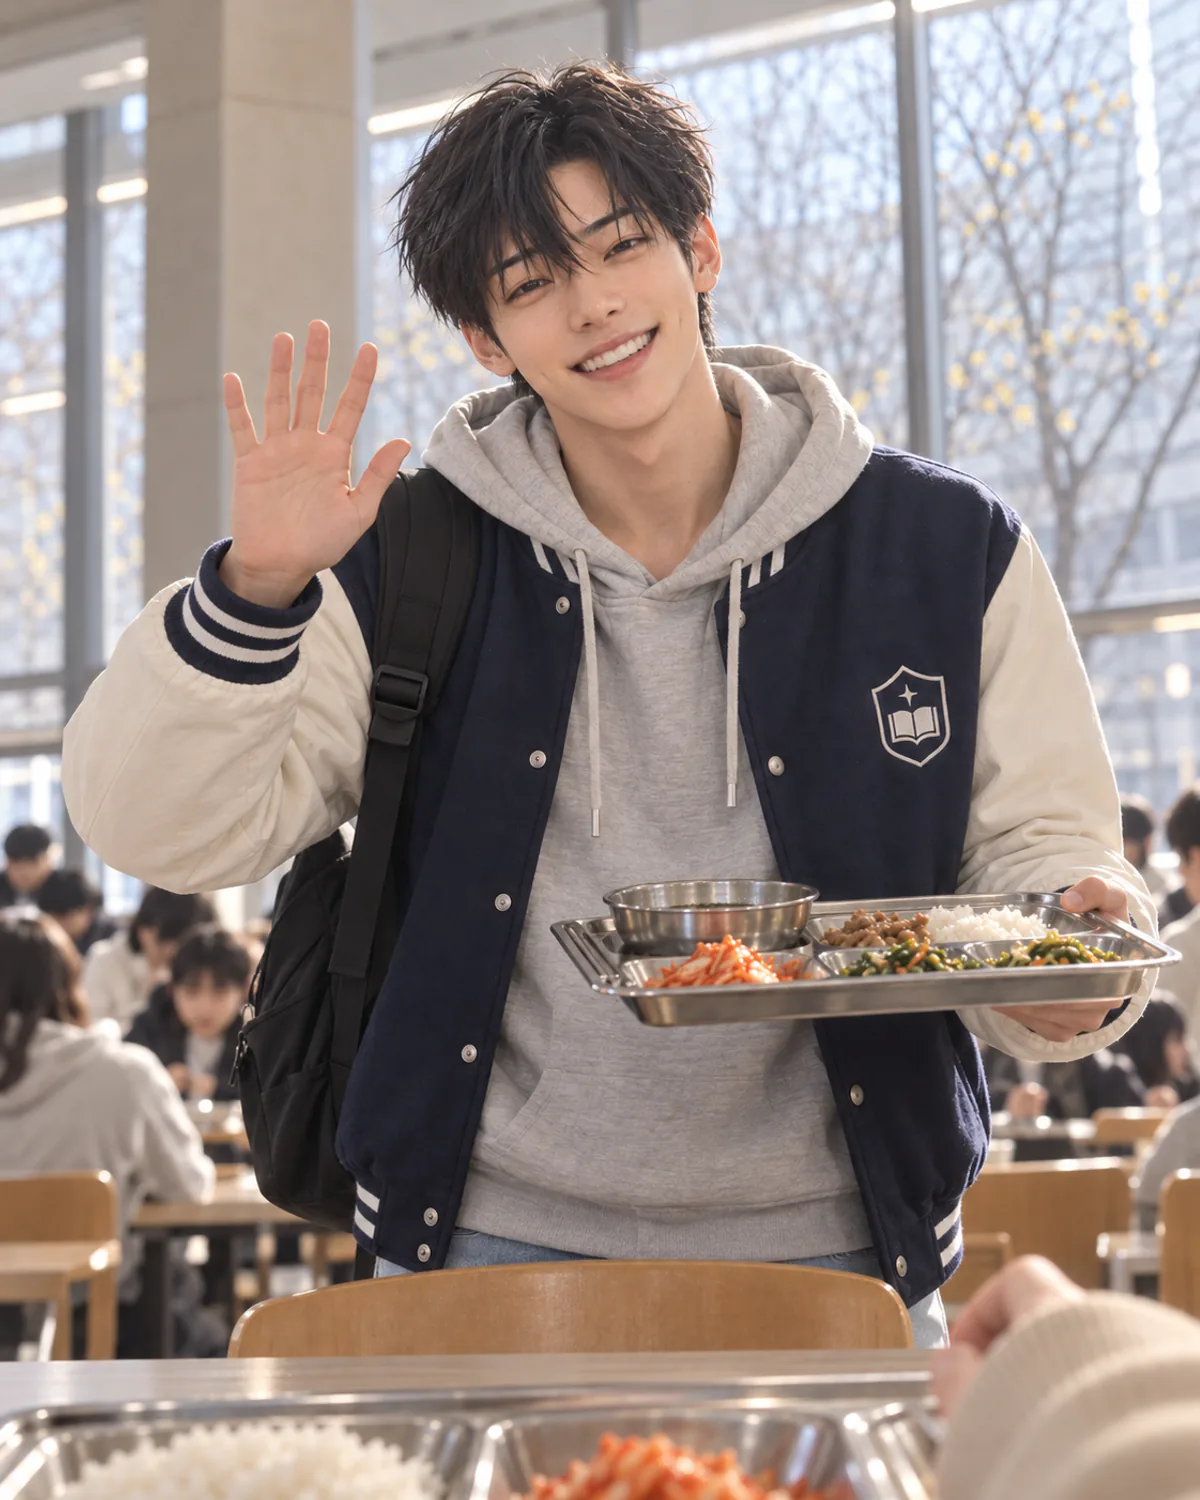
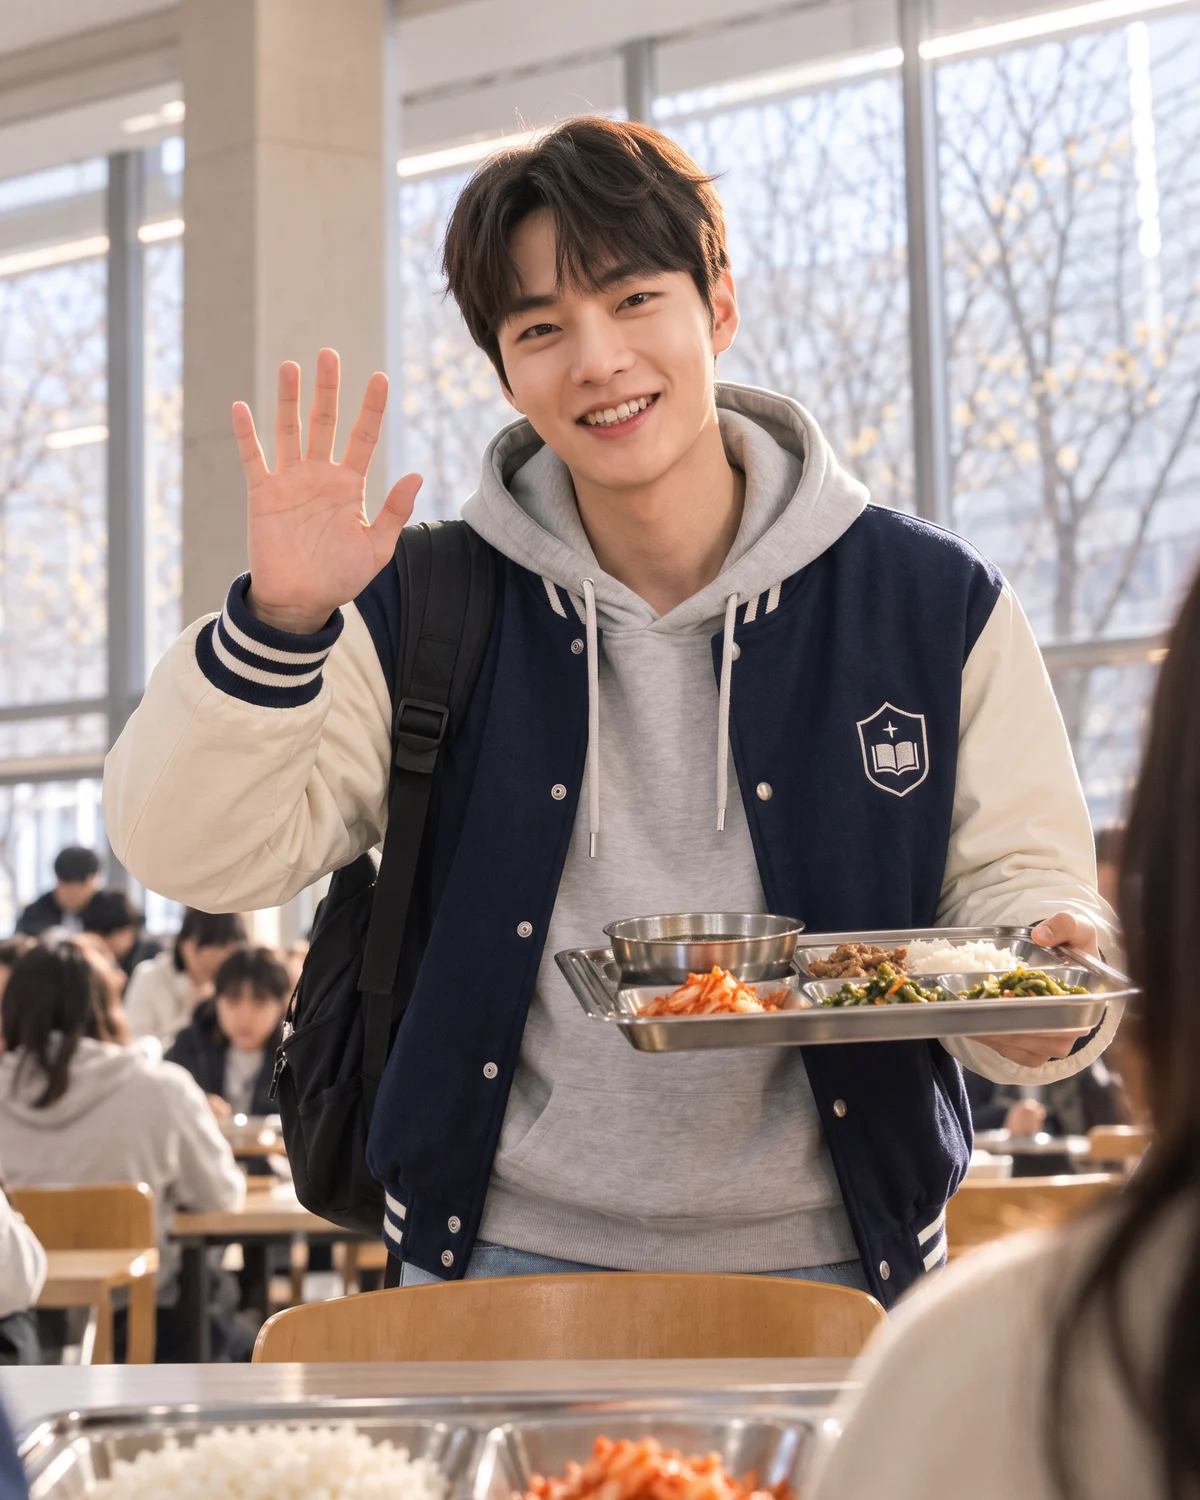
feat(드라마 쇼케이스 · 홈 · LAB 칸 태오 = 덧니 선배 공개 · 11-03): 유호님 「이대로 진행」 — 칸 다섯(1 · 11 · 12 · 13 · 14)과 작은 판, LAB 공유 그림을 synk.im에(1d78fdd1, 검수 taeo-home-panels-20261103-r2, 닮음 대조 Fable). WORLD 폴더의 칸 11 사본 둘도 같은 파일로. 콘티 순서 8 · 트랙 줄

diff --git a/docs/_ops/트랙.md b/docs/_ops/트랙.md
@@ -195,7 +195,7 @@ synk-town 운영은 11-01 실제 대조 v45 — 0555a4c7(싱크타운 첫 C4 후
 - **드라마 말하기 — 기존1화 이PC 시범 완료(10-31):** 승인 태오 실사와 Julian/Hana/Harrison 목소리로 장면 → 한 줄 재시도 → 새 상황을 `127.0.0.1:8794`에서 [직접 체험](../../experiences/drama/pilot/README.md)할 수 있다(서버/작업본 유지). 다음 범위는 실제 장치/성인 시범 · 문항/몽골어 검문 · 완결 1화/둘째 회 제작 실측 · talk 운영 연결이고, 가격 · 한도 · 결제 · 연재량은 미확정이다. [제작 기록](../../experiences/drama/qa/시범판-20261031/제작기록.md) · [기획/BM](../드라마말하기_기획.md). [경과](보관/트랙_2026-11.md#t1102-196)
   - **시범판 백엔드(10-31, Claude):** Atlas `spoken` · [말하기 지도](../../strata/maps/ko-speaking.json) · talk `world-speaking` `take`가 운영 · 리허설 v18(판정 drama-judge-5, 17줄 다시 검수 통과)로 켜져 있고, talk Atlas 사본 `spoken`도 11-02 운영에 들어가 드라마 화면이 학습 기록을 보내도 된다. 남은 일: 판정의 반말 뒤 존댓말 · 부정(「안 · 못」) 한계 고치기(고치면 17줄 다시 검수) — Claude. 설계는 [기획 §4-2 「talk 동작」](../드라마말하기_기획.md#4-2-노트-고르기와-말투), 측정은 [리허설 기록](../../experiences/drama/qa/리허설-20261031/README.md). [경과](보관/트랙_2026-11.md#t1102-197)
   - **1화 그림 시안 → 결 시험(10-30, Claude):** 웹툰 · 2D 라이브 시안은 고른 값 없이 끝났고, 유호님 「실사로」 뒤 태오 선배 영상 시험(한 테이크 · 나노바나나 시작 그림 두 판 — 같은 얼굴 · 벚꽃 얼굴)까지 마쳤다 — 경과와 실측은 [시험 기록](../../experiences/drama/qa/최신기법-20261030/브리프.md). 남은 일: 어느 얼굴로 갈지와 720p는 유호님 말씀 뒤, 기획 6절 · 11절 ① 「웹툰풍」을 실사로 옮기기와 앱 칸 실사로 다시 굽기 — Claude(홈페이지 세션이 넘긴 몫). [경과](보관/트랙_2026-11.md#t1102-198)
-  - **쇼케이스 1분 콘티(10-31, Claude · 유호님 「이대로 확정」 · [결정](결정.md) 10-31 「쇼케이스 한 흐름 먼저」 · 「쇼케이스 1분 콘티 확정」):** [콘티](../../experiences/drama/qa/쇼케이스-20261031/콘티.md)는 11-02 시범판 흐름(되묻기 → 스스로 고침 → 「다른 말로 한번 더」 → 편의점 새 상황)으로 맞췄고, 장면 화면은 시네마 자막([정본](../디자인/드라마_장면/README.md))과 코치 틀로 시범판에 들어갔다. 태오 얼굴은 11-02 「덧니 선배」([결정](결정.md) 11-02). 11-03 식당 네 컷을 PULSE 무제한(0크레딧)으로 굽고(두 사람 판은 nsfw 오탐 → 성인 대학생 표현으로 다시), 원래 녹음을 얹어 시범판 · WORLD 공개본(synk.im 866d3ab8, 검수 drama-world-showcase-taeo-20261103-r2)의 선배 1 · 2 · 3 · 첫 되묻기 · 정지 사진 · 코치 목소리를 바꿨다. 11-03 시범판 오늘 기록을 콘티대로 고쳐 WORLD 공개(synk.im 9d358235, 검수 drama-wrap-20261103-r3). 남은 일: 1분 · 30초 영상판 첫 판 유호님 확인([콘티](../../experiences/drama/qa/쇼케이스-20261031/콘티.md) 순서 6 · 7, 실제 받아쓰기 판은 11-08 크레딧 뒤), 체험판 듣는 반복 둘(`sc-L6` · `sc-L7`, GPT 작업자가 유호님 지시로 멈춤 — 재개 말씀 필요), 홈 · LAB 칸 다섯 덧니 선배 판 공개(유호님이 보신 뒤), 제2의 나 인물 참고 세트 예비 판은 11-03 구움([결 README](../../experiences/drama/qa/제2의나-20261102/결/README.md)). 다음 드라마 공개에 함께: C 길 P2 둘(r2 FA1 첫 화면 표지가 다시 들어올 때 남음 · FA2 언어 바꾸면 C 안내가 지워짐), 공개 후보는 LF 사본에서(r3 FA1). [경과](보관/트랙_2026-11.md#t1102-199)
+  - **쇼케이스 1분 콘티(10-31, Claude · 유호님 「이대로 확정」 · [결정](결정.md) 10-31 「쇼케이스 한 흐름 먼저」 · 「쇼케이스 1분 콘티 확정」):** [콘티](../../experiences/drama/qa/쇼케이스-20261031/콘티.md)는 11-02 시범판 흐름(되묻기 → 스스로 고침 → 「다른 말로 한번 더」 → 편의점 새 상황)으로 맞췄고, 장면 화면은 시네마 자막([정본](../디자인/드라마_장면/README.md))과 코치 틀로 시범판에 들어갔다. 태오 얼굴은 11-02 「덧니 선배」([결정](결정.md) 11-02). 11-03 식당 네 컷을 PULSE 무제한(0크레딧)으로 굽고(두 사람 판은 nsfw 오탐 → 성인 대학생 표현으로 다시), 원래 녹음을 얹어 시범판 · WORLD 공개본(synk.im 866d3ab8, 검수 drama-world-showcase-taeo-20261103-r2)의 선배 1 · 2 · 3 · 첫 되묻기 · 정지 사진 · 코치 목소리를 바꿨다. 11-03 시범판 오늘 기록을 콘티대로 고쳐 WORLD 공개(synk.im 9d358235, 검수 drama-wrap-20261103-r3). 11-03 유호님 「이대로 진행」 → 홈 · LAB 칸 다섯(1 · 11 · 12 · 13 · 14)과 LAB 공유 그림을 덧니 선배로 공개(synk.im 1d78fdd1, 검수 taeo-home-panels-20261103-r2, SYNK-website `claude/taeo-home-panels-20261103`). 남은 일: 1분 · 30초 영상판 쓰기(공모전 시연 · SNS · 앱스토어 — 쓰는 자리가 생길 때)([콘티](../../experiences/drama/qa/쇼케이스-20261031/콘티.md) 순서 6 · 7, 실제 받아쓰기 판은 11-08 크레딧 뒤), 체험판 듣는 반복 둘(`sc-L6` · `sc-L7`, GPT 작업자가 유호님 지시로 멈춤 — 재개 말씀 필요), 제2의 나 인물 참고 세트 예비 판은 11-03 구움([결 README](../../experiences/drama/qa/제2의나-20261102/결/README.md)). 다음 드라마 공개에 함께: C 길 P2 둘(r2 FA1 첫 화면 표지가 다시 들어올 때 남음 · FA2 언어 바꾸면 C 안내가 지워짐), 공개 후보는 LF 사본에서(r3 FA1). [경과](보관/트랙_2026-11.md#t1102-199)
 - **한국어 공부 · WORLD 밖 독립 학습(10-28, Claude 구현·검수 / GPT 점검·공개):** [학습 입구](https://synk.im/study/)가 공개돼 있고 [설계·재고](../../experiences/korean-study/README.md)에 있다(지금 판정은 끝맺음 규칙이며 TOPIK 전체 AI 채점이 아님). 남은 일: 키보드 초점(A1) 먼저 · 재료 부족 때 방법 전환(A2) · 같은 시각 관측 순서(S1), 그 뒤 로그인 · 전체 글 AI 피드백 · 학습 효과와 재미(README §6·9), 실주소 수동 클릭 검증 — Claude. [경과](보관/트랙_2026-11.md#t1102-201)
 - **TOPIK 53번 문장 끝 개인화(10-28, GPT 직접 수정·자체 검수 완료 / 공개 대기):** 사용자 요청으로 판정·재수정 저장·오래된 도움 이력 오류 3건과 유형별 카드 구성을 고쳤다. [결과·증거·한계](../../experiences/synk-world-app/qa/writing-focus-20261027/설계.md#self-review-20261028). 후속 학습 개발은 [AI가 진단·제안·학습 유도를 주도하고 교사는 요약을 참고하는 선택 역할](../../experiences/synk-world-app/README.md#ai-teacher-topik4-20261028)로 확정했다. 남은 일: 기존 `writing-focus-s2` Fable 재검수의 주간 한도 해소 후 이번 diff와 새 배포 후보를 재검수하고 공개·라이브 확인. 자체 검수를 최종 외부 검수로 대신 기록하지 않으며, 워크트리·증거를 보존한다.
 

diff --git a/experiences/drama/qa/쇼케이스-20261031/콘티.md b/experiences/drama/qa/쇼케이스-20261031/콘티.md
@@ -92,8 +92,9 @@
 3. ~~새 글 · 지시문 검수~~ — 10-31 끝([검수기록](검수기록.md)). 11-02에 바뀐 새 줄(「선배님, 도서관이 어디예요?」는 대본 허용 변형, 편의점 줄은 시범판 모범)은 녹음 전에 다시 확인한다.
 4. ~~칸을 9:16 시작 · 끝 그림으로~~ — 11-02 덧니 선배로 일곱 장(C1 시작 · 끝, C3 · C2 공통 시작, C3 끝, C2 끝, C4 시작 · 끝), 나노바나나 구독 안 0원. 원고 [`시작그림.mjs`](시작그림.mjs) · [`끝그림.mjs`](끝그림.mjs)(C3 끝은 얼굴 참고 F1을 더한 판), 고른 판은 git 밖 `synk-vendor/drama-showcase-20261031/시작끝_덧니선배/`. 실측 견적(11-02 `generate cost`, 720p): C1 56 · C3 56 · C2 98 · C4 105 · 반복 28 × 2 = 한 번에 371크레딧. → 견적을 보여 드리고 목소리 여섯 줄(학습자 셋 · 코치 셋)과 720p 영상을 한 번에 굽기 → 받은 뒤 구도 · 깜빡임 · 붙들림 · 입 다묾 · 받아쓰기를 S39 자로 재기
 5. ~~시범판~~ — 11-03 네 컷(C1 · C3b · C2b · C4b, PULSE 무제한 0크레딧)에 원래 녹음을 얹어 `SHOWCASE_CUTS`를 채우고 정지 사진 · 듣는 고리 · 코치 목소리(Harrison 0.46크레딧)까지 덧니 선배로, WORLD 공개(synk.im 866d3ab8). C4는 영상이 「도서관?」을 빼서 소리 · 자막도 뺐다. 홈 재생기: 영상 무대 · 되묻기 · 연습 · 새 상황 · 오늘의 끝을 더하고 말을 코치 틀로(홈 자리 담당)
-6. ~~시범판 화면 녹화로 1분 영상판~~ — 11-03 첫 판(66초, Fable 2차 「보여 드려도 됨」), 유호님 확인 대기. 녹화 [`영상판녹화.mjs`](영상판녹화.mjs) → [`영상판날것.py`](영상판날것.py) → [`영상판편집.py`](영상판편집.py), 결과는 git 밖 `synk-vendor/drama-showcase-20261031/영상판/`. 판정은 talk와 같은 판정기, 받아 적힌 글만 틀 시험처럼 정해 뒀다 — 실제 받아쓰기(11-08 크레딧 뒤)로 다시 돌릴 수 있다. 콘티와 다른 곳: 첫 칸은 대본 칸 1 대신 실제 앱 첫 화면(칸 1에 옛 얼굴이 있고 「실제 앱과 같은 흐름만」), 끝은 시범판 오늘 기록을 콘티대로 고쳐서(2화 예고 그림 맨 위 · 태오 메모 · 오늘 배운 표현 · 녹음 접기), 뒤에 식당 방 소리를 낮게 깔았다(원본 대사 없는 틈). 왜 되묻는지 글로 안 보이는 구멍은 받아 적은 말풍선 결정(시범판 README, 실제 학습자 시범 뒤)을 따라 남겼다.
+6. ~~시범판 화면 녹화로 1분 영상판~~ — 11-03 첫 판(66초, Fable 2차 「보여 드려도 됨」), 11-03 유호님 「이대로 진행」. 녹화 [`영상판녹화.mjs`](영상판녹화.mjs) → [`영상판날것.py`](영상판날것.py) → [`영상판편집.py`](영상판편집.py), 결과는 git 밖 `synk-vendor/drama-showcase-20261031/영상판/`. 판정은 talk와 같은 판정기, 받아 적힌 글만 틀 시험처럼 정해 뒀다 — 실제 받아쓰기(11-08 크레딧 뒤)로 다시 돌릴 수 있다. 콘티와 다른 곳: 첫 칸은 대본 칸 1 대신 실제 앱 첫 화면(칸 1에 옛 얼굴이 있고 「실제 앱과 같은 흐름만」), 끝은 시범판 오늘 기록을 콘티대로 고쳐서(2화 예고 그림 맨 위 · 태오 메모 · 오늘 배운 표현 · 녹음 접기), 뒤에 식당 방 소리를 낮게 깔았다(원본 대사 없는 틈). 왜 되묻는지 글로 안 보이는 구멍은 받아 적은 말풍선 결정(시범판 README, 실제 학습자 시범 뒤)을 따라 남겼다.
 7. ~~앱스토어용 30초 판~~ — 11-03 첫 판(29.6초, `--30초`: 스스로 고쳐 선배가 웃으며 받는 데까지). 1080×1920 그대로라 iPhone 6.5인치 규격(886×1920)이 필요하면 그때 다시 맞춘다.
+8. ~~홈 · LAB 칸 다섯을 덧니 선배로~~ — 11-03 유호님 「이대로 진행」 뒤 공개(synk.im 1d78fdd1). 원고 [`홈칸그림.mjs`](홈칸그림.mjs), 공개 전 닮음 대조 Fable(태오 약함 · 상표 · 글자 없음). 칸 15는 그대로. WORLD 폴더의 칸 11 사본 둘도 같은 파일로 바꿨다.
 
 ## 검수 기록
 
